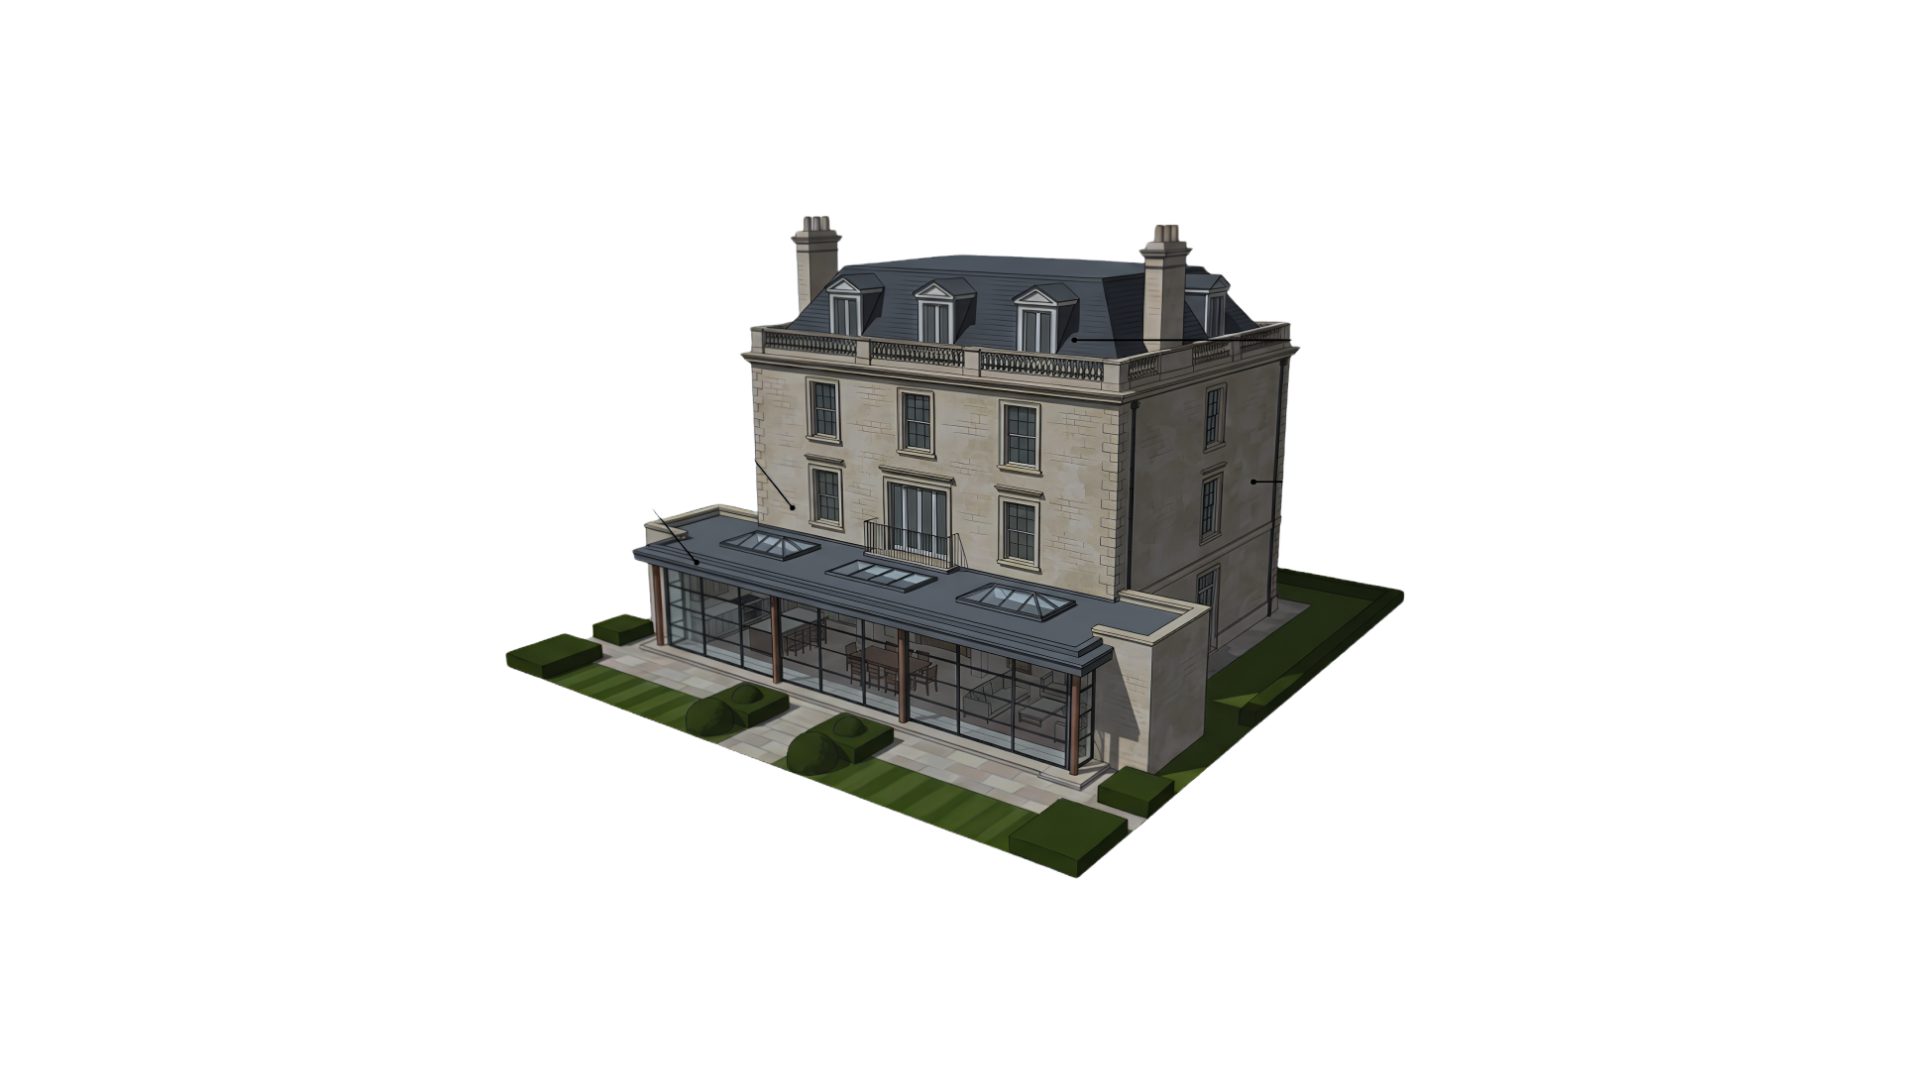
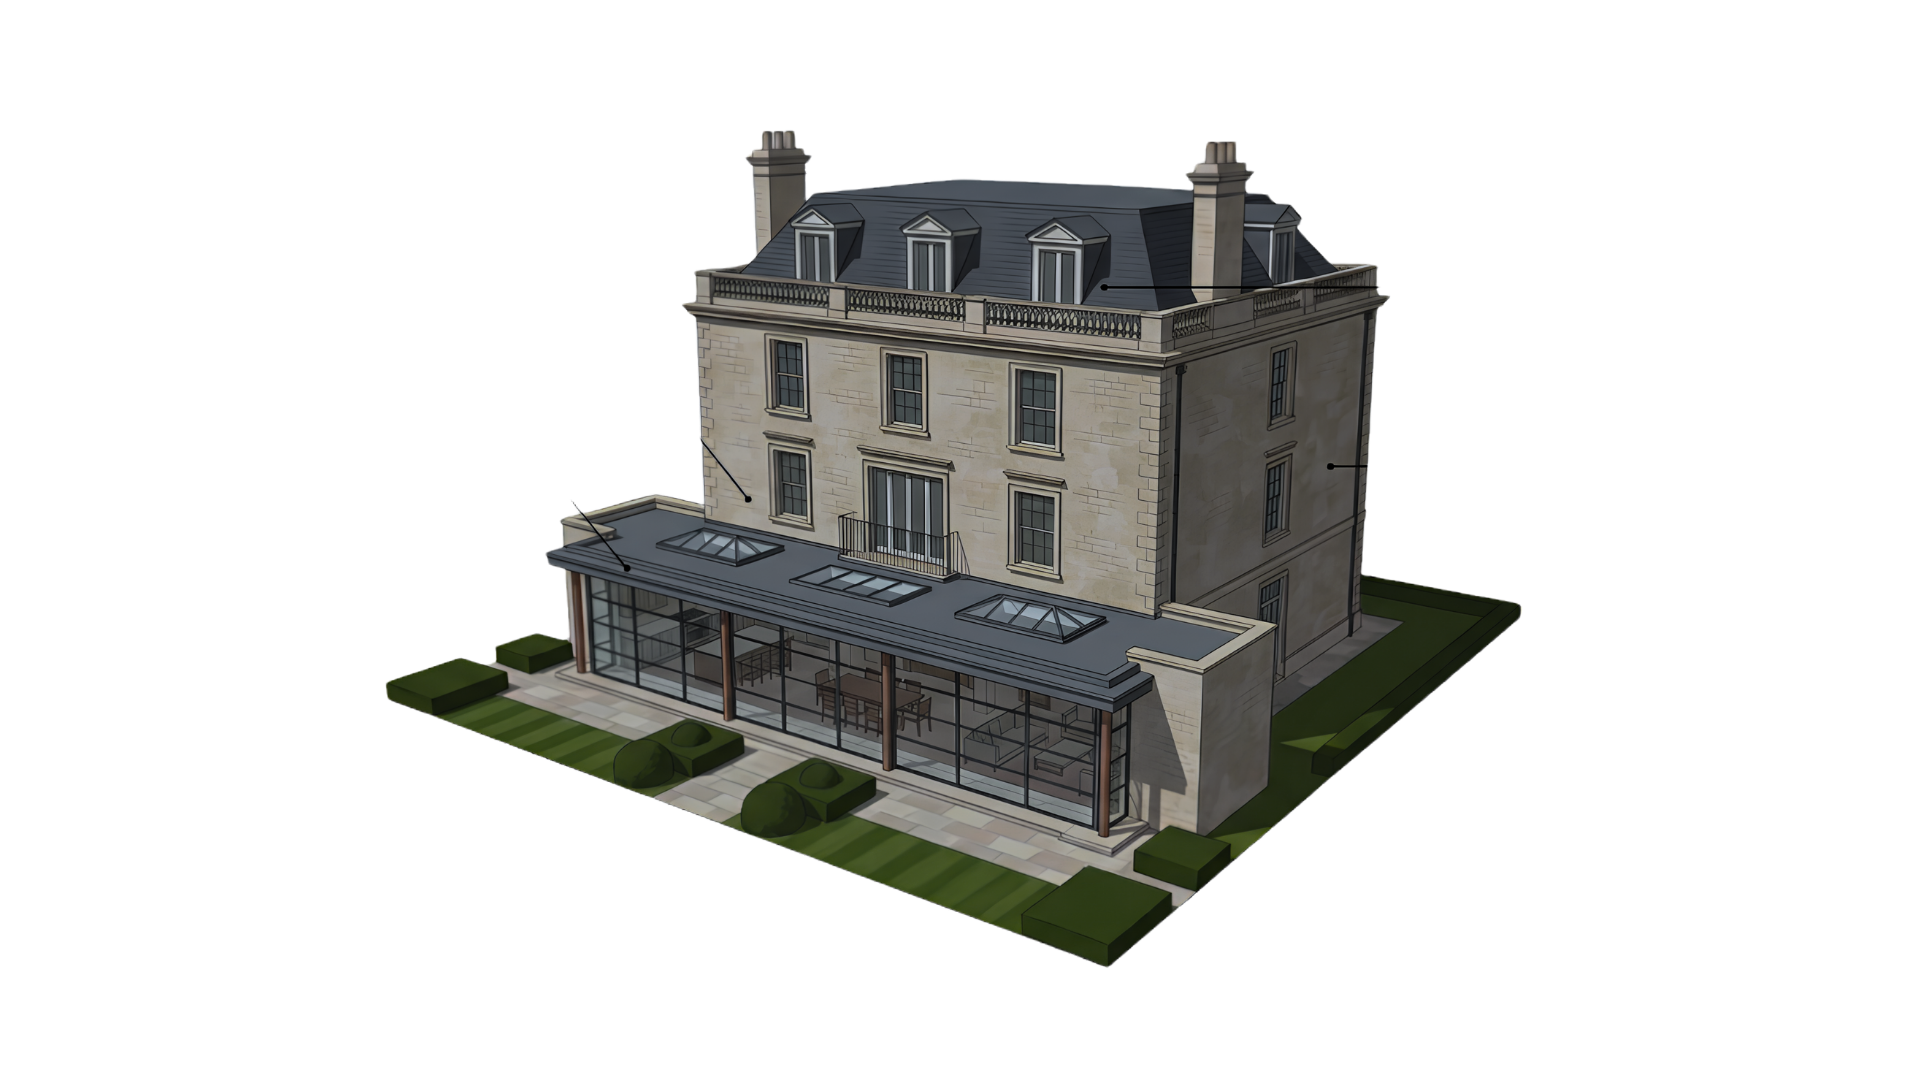
Discover section copy merge, guided walkthrough mobile image update, about section copy + stats + CTA

Changed region(s): [[0.1875, 0.1222, 0.8125, 0.9167]]

diff --git a/src/components/viewing/ViewingAbout.tsx b/src/components/viewing/ViewingAbout.tsx
@@ -1,22 +1,52 @@
-import { useRef } from 'react';
-import { motion, useInView } from 'framer-motion';
+import { useEffect, useRef, useState } from 'react';
+import { animate, motion, useInView } from 'framer-motion';
+
+const STAT_ANIMATION_DURATION = 1.8;
 
 const stats = [
-  { value: '15+', label: 'Years of Experience' },
-  { value: '97%', label: 'Planning Success Rate' },
-  { value: '£25M+', label: 'Value Delivered' },
-  { value: '1,000+', label: 'Projects Completed' },
+  { target: 15, format: (n: number) => `${Math.round(n)}+`, label: 'Years of Experience' },
+  { target: 97, format: (n: number) => `${Math.round(n)}%`, label: 'Planning Success Rate' },
+  { target: 25, format: (n: number) => `£${Math.round(n)}M+`, label: 'Value Delivered' },
+  { target: 1000, format: (n: number) => `${Math.round(n).toLocaleString('en-GB')}+`, label: 'Projects Completed' },
 ];
 
 const columns = [
-  "Sovran brings architecture, planning and construction together as one team, working across London and the Home Counties. We listen first, then bring the right people together to make what we hear real.",
+  "Sovran brings architecture, planning and construction together as one team, working across London and the Home Counties. Every specialist involved in a project stays on it from beginning to end.",
   "From a single extension to a complete transformation, our architects, designers and construction specialists carry a project from first sketch to final handover, across residential, commercial and hospitality spaces.",
-  "What you see on a Sovran site visit is the same standard we hold on every project we deliver, not a version of it dressed for a photograph.",
+  "The home you walk through on a Sovran site visit reflects the standard behind every project we deliver, unstaged and unedited for a photograph.",
 ];
+
+function CountUpStat({
+  target,
+  format,
+  trigger,
+}: {
+  target: number;
+  format: (n: number) => string;
+  trigger: boolean;
+}) {
+  const [display, setDisplay] = useState(format(0));
+  const startedRef = useRef(false);
+
+  useEffect(() => {
+    if (!trigger || startedRef.current) return;
+    startedRef.current = true;
+    const controls = animate(0, target, {
+      duration: STAT_ANIMATION_DURATION,
+      ease: 'easeOut',
+      onUpdate: (v) => setDisplay(format(v)),
+    });
+    return () => controls.stop();
+  }, [trigger, target, format]);
+
+  return <>{display}</>;
+}
 
 export default function ViewingAbout() {
   const ref = useRef<HTMLElement>(null);
   const isInView = useInView(ref, { once: true, margin: '0px 0px -120px 0px', amount: 0.3 });
+  const statsRef = useRef<HTMLDivElement>(null);
+  const isStatsInView = useInView(statsRef, { once: true, margin: '0px 0px -80px 0px', amount: 0.4 });
 
   return (
     <>
@@ -48,6 +78,24 @@ export default function ViewingAbout() {
           color: rgba(10,10,10,0.65);
           line-height: 1.75;
           letter-spacing: normal;
+        }
+        .about-cta-btn {
+          display: inline-block;
+          background-color: transparent;
+          color: #0a0a0a;
+          border: 1px solid #0a0a0a;
+          font-size: 13px;
+          font-weight: 500;
+          letter-spacing: 0.1em;
+          text-transform: uppercase;
+          padding: 16px 40px;
+          cursor: pointer;
+          text-decoration: none;
+          transition: background-color 0.3s ease, color 0.3s ease;
+        }
+        .about-cta-btn:hover {
+          background-color: #0a0a0a;
+          color: #ffffff;
         }
         @media (max-width: 768px) {
           .about-stats {
@@ -121,6 +169,7 @@ export default function ViewingAbout() {
         </motion.div>
 
         <motion.div
+          ref={statsRef}
           initial={{ opacity: 0, y: 30 }}
           animate={isInView ? { opacity: 1, y: 0 } : { opacity: 0, y: 30 }}
           transition={{ duration: 0.8, delay: 0.4, ease: 'easeOut' }}
@@ -133,13 +182,13 @@ export default function ViewingAbout() {
                 style={{
                   fontSize: 'clamp(26px, 2.8vw, 36px)',
                   fontWeight: 900,
-                  color: '#c9a96e',
+                  color: '#0a0a0a',
                   letterSpacing: '-0.005em',
                   lineHeight: 1,
                   marginBottom: '10px',
                 }}
               >
-                {stat.value}
+                <CountUpStat target={stat.target} format={stat.format} trigger={isStatsInView} />
               </div>
               <div
                 style={{
@@ -155,6 +204,17 @@ export default function ViewingAbout() {
             </div>
           ))}
         </motion.div>
+
+        <div className="inner" style={{ marginTop: '48px', textAlign: 'center' }}>
+          <a
+            href="https://sovrangroup.co.uk"
+            target="_blank"
+            rel="noopener noreferrer"
+            className="about-cta-btn"
+          >
+            Discover More About Sovran
+          </a>
+        </div>
       </section>
     </>
   );

diff --git a/src/components/viewing/ViewingExperience.tsx b/src/components/viewing/ViewingExperience.tsx
@@ -162,22 +162,6 @@ export default function ViewingExperience() {
           >
             What You&apos;ll Discover Inside
           </motion.h2>
-          <motion.p
-            initial={{ opacity: 0, y: 40 }}
-            animate={isHeadingInView ? { opacity: 1, y: 0 } : { opacity: 0, y: 40 }}
-            transition={{ duration: 0.8, delay: 0.1, ease: 'easeOut' }}
-            style={{
-              fontSize: '16px',
-              fontWeight: 400,
-              color: 'rgba(0,0,0,0.55)',
-              maxWidth: '520px',
-              margin: '18px auto 0',
-              lineHeight: 1.7,
-              letterSpacing: 'normal',
-            }}
-          >
-            Guided by a Sovran Design &amp; Build Specialist, you&apos;ll walk a completed home and see exactly how it was made to work.
-          </motion.p>
         </div>
 
         <motion.div
@@ -206,7 +190,7 @@ export default function ViewingExperience() {
 
         <div className="inner" style={{ marginTop: '40px', textAlign: 'center' }}>
           <p className="discover-feature-caption">
-            Guided by a Sovran Design &amp; Build Specialist, you&apos;ll walk through the real decisions, materials, and craftsmanship behind the home, not a rendering of it, the finished result.
+            Guided by a Sovran Design &amp; Build Specialist, you&apos;ll walk a completed home and see the real decisions, materials, and craftsmanship behind it, not a rendering of the finished result.
           </p>
         </div>
       </section>

diff --git a/src/components/viewing/ViewingSpecialist.tsx b/src/components/viewing/ViewingSpecialist.tsx
@@ -17,7 +17,16 @@ export default function ViewingSpecialist() {
       <style>{`
         @media (max-width: 767px) {
           .specialist-row { flex-direction: column !important; min-height: unset !important; }
-          .specialist-image-col { flex: 0 0 340px !important; width: 100% !important; }
+          .specialist-image-col {
+            flex: 0 0 auto !important;
+            width: 100% !important;
+            padding: 32px 24px !important;
+          }
+          .specialist-image-col img {
+            width: 100% !important;
+            max-height: none !important;
+            height: auto !important;
+          }
           .specialist-text-col { flex: auto !important; width: 100% !important; padding: 48px 24px !important; }
         }
       `}</style>
@@ -41,7 +50,7 @@ export default function ViewingSpecialist() {
             }}
           >
             <img
-              src={isMobile ? '/media/drawhmob.png' : '/media/drawh.png'}
+              src={isMobile ? '/media/drawhmob.png?v=2' : '/media/drawh.png'}
               alt="Architectural line drawing of a Sovran home"
               style={{
                 maxWidth: '100%',
